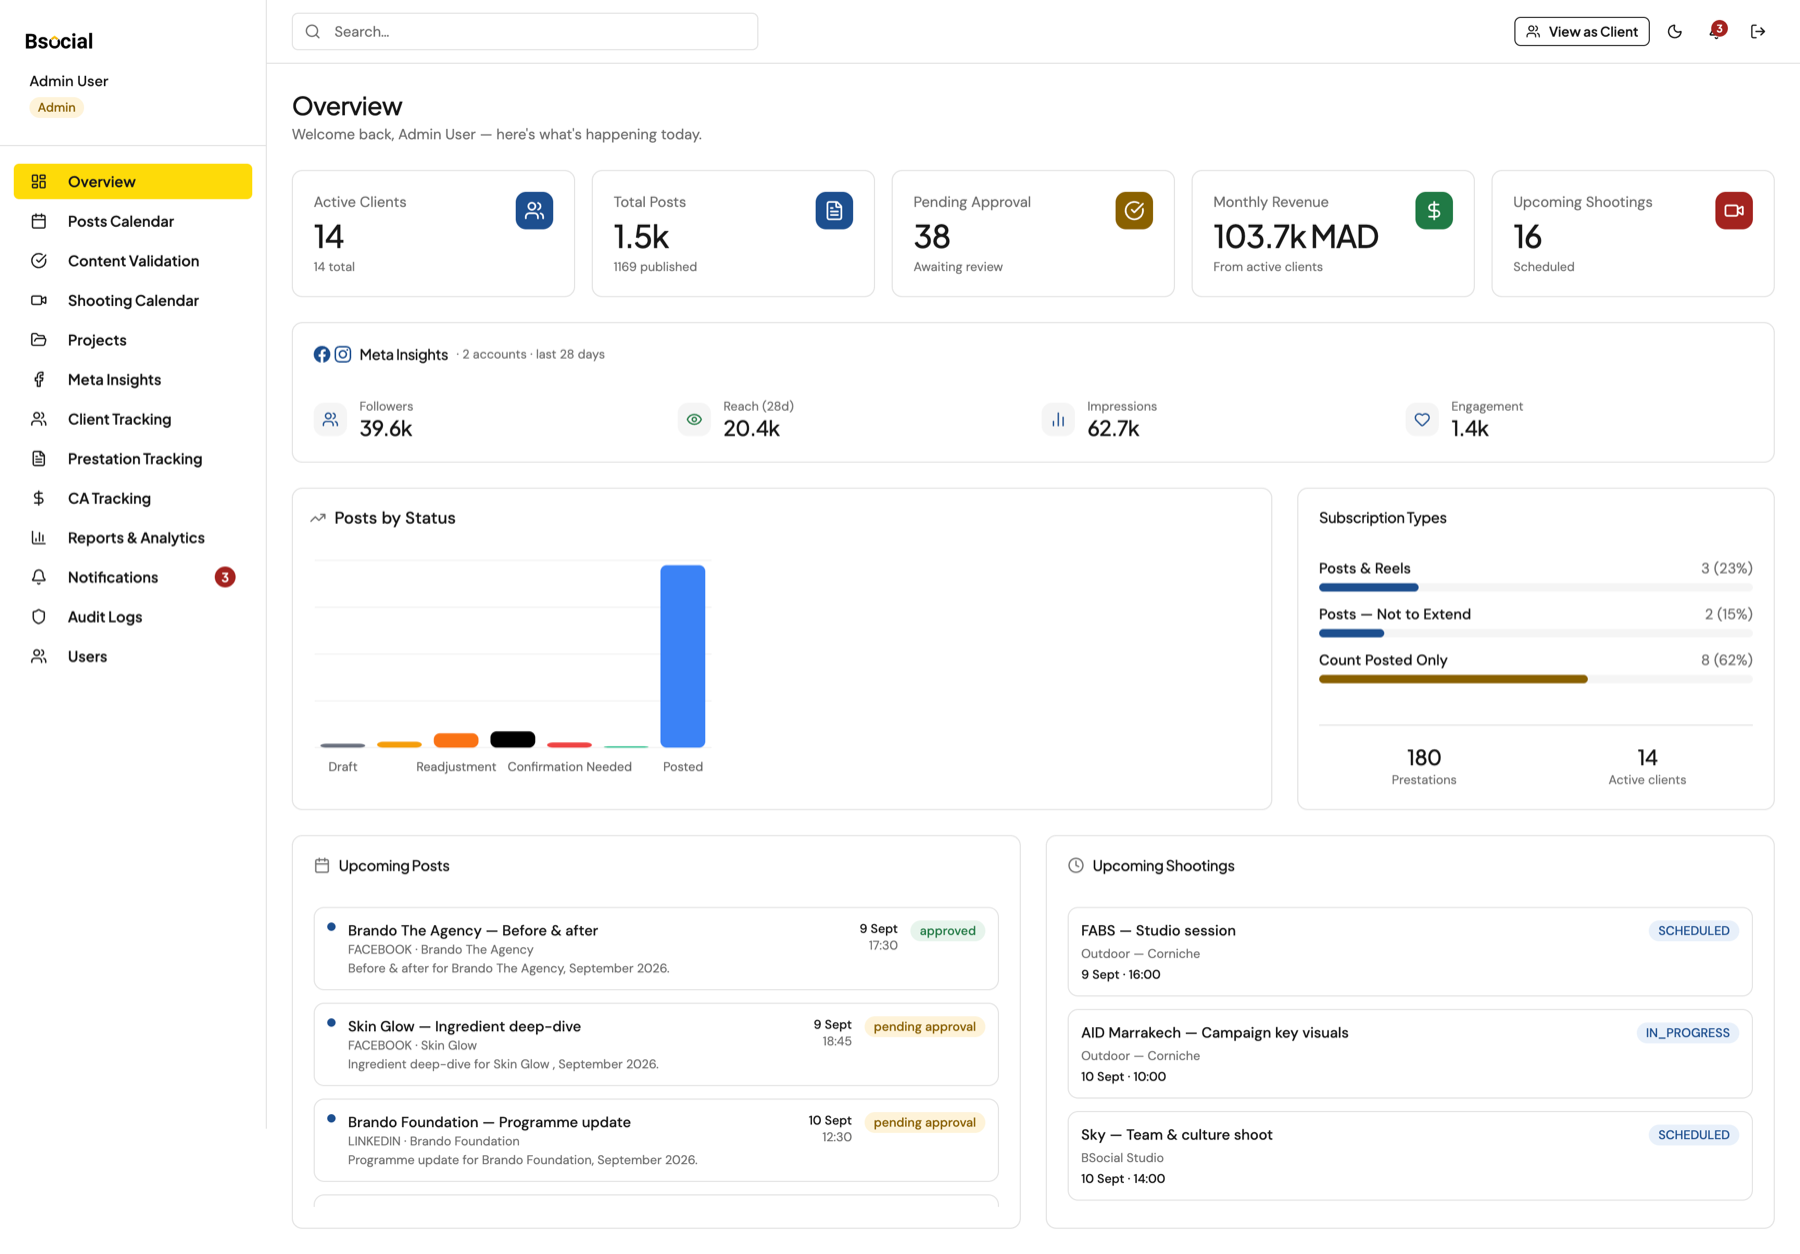
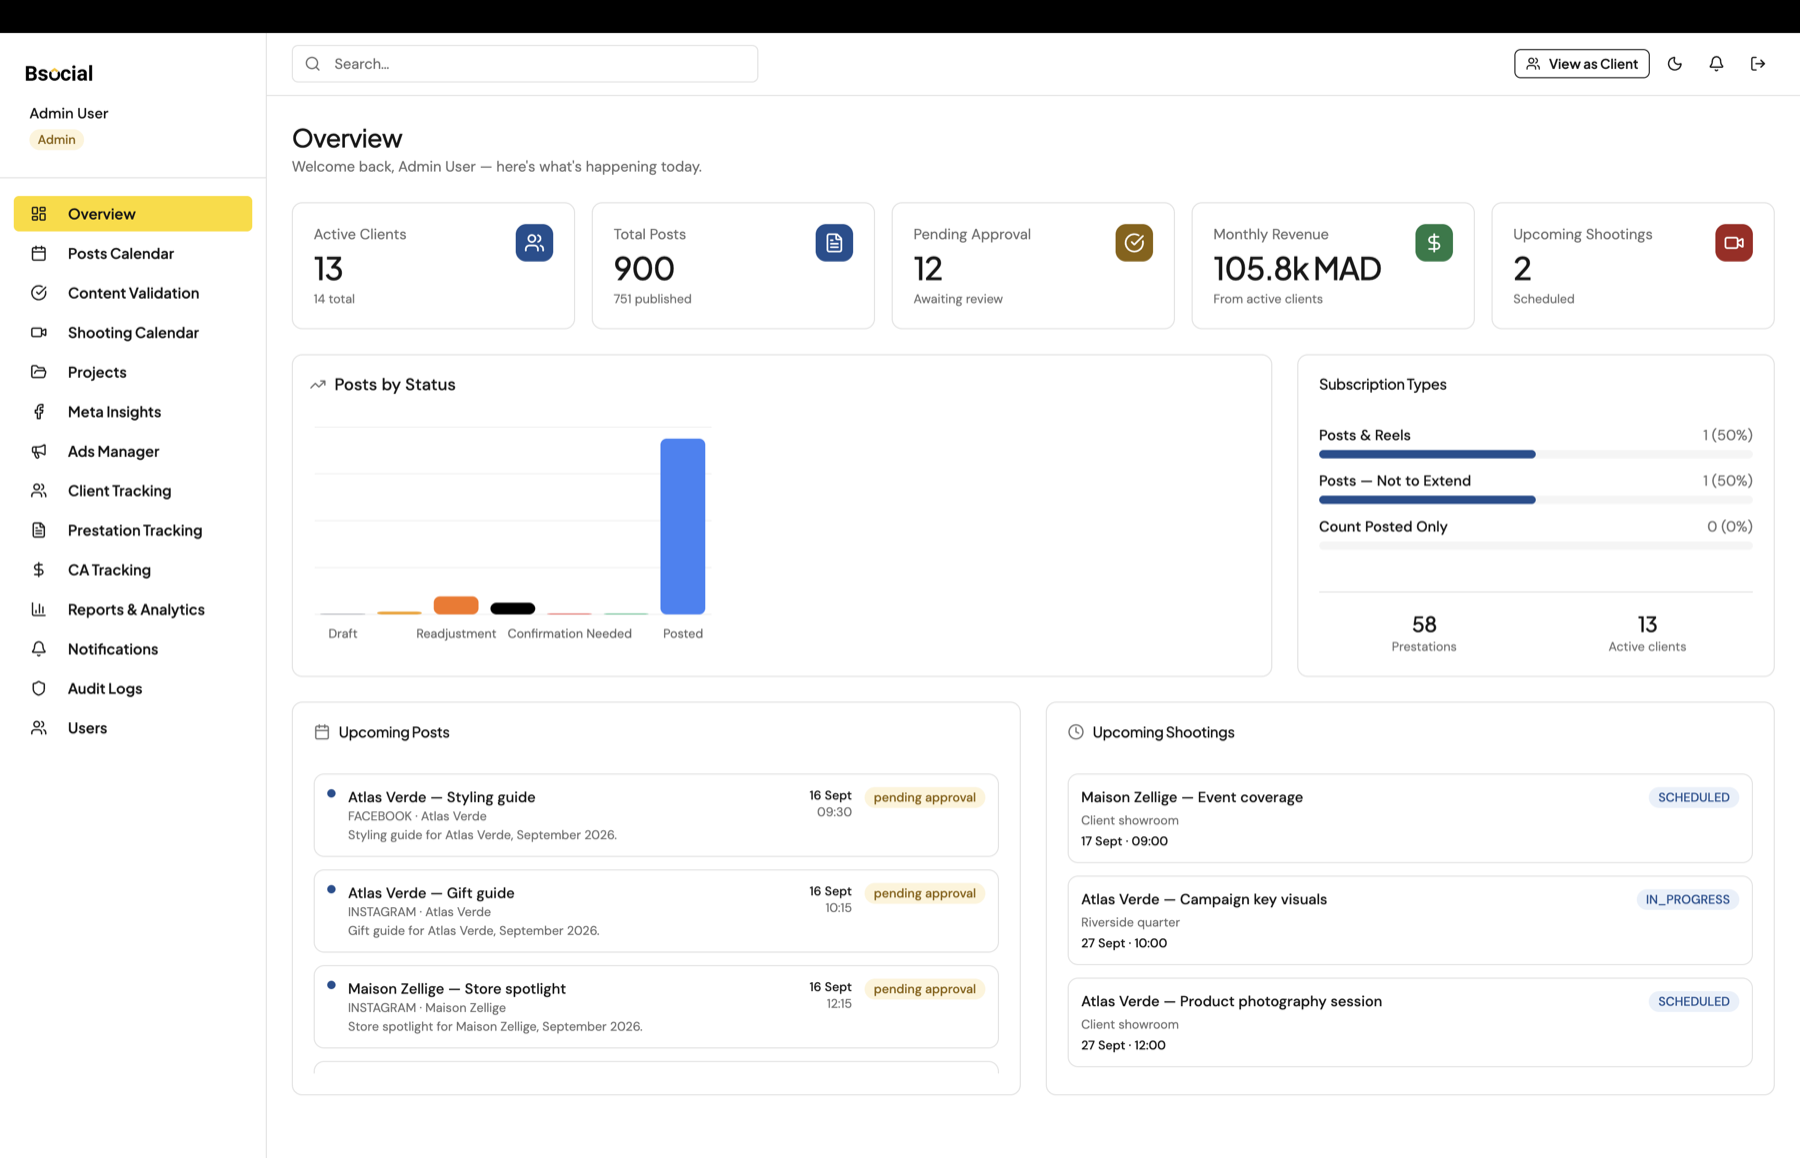
screens

diff --git a/src/data/content.ts b/src/data/content.ts
@@ -167,7 +167,7 @@ export const screens: Screen[] = [
     description:
       "Clients actifs, publications en attente de validation, chiffre d'affaires du mois et prochains tournages. Ce qui demande une décision aujourd'hui est visible immédiatement.",
     image: "/screens/overview.png",
-    alt: "Tableau de bord BSocial : indicateurs clés, statistiques Meta, publications et tournages à venir.",
+    alt: "Tableau de bord BSocial : indicateurs clés, publications par statut, types d'abonnement, publications et tournages à venir.",
   },
   {
     id: "calendar",

diff --git a/index.html b/index.html
@@ -36,7 +36,7 @@
     />
     <meta property="og:image" content="https://bsocial.ma/screens/overview.png" />
     <meta property="og:image:width" content="1800" />
-    <meta property="og:image:height" content="1254" />
+    <meta property="og:image:height" content="1158" />
     <meta property="og:image:alt" content="Le tableau de bord BSocial : clients actifs, publications à valider, chiffre d'affaires et tournages à venir." />
 
     <meta name="twitter:card" content="summary_large_image" />

diff --git a/src/components/Navbar.tsx b/src/components/Navbar.tsx
@@ -67,9 +67,7 @@ export default function Navbar({ theme, onToggleTheme, minimal = false }: Props)
           >
             <Icon name={theme === "dark" ? "sun" : "moon"} size={19} />
           </button>
-          <a href="#demo" className="nav__signin">
-            Connexion
-          </a>
+       
           <a href="#demo" className="btn btn--primary nav__cta">
             Demander une démo
           </a>
